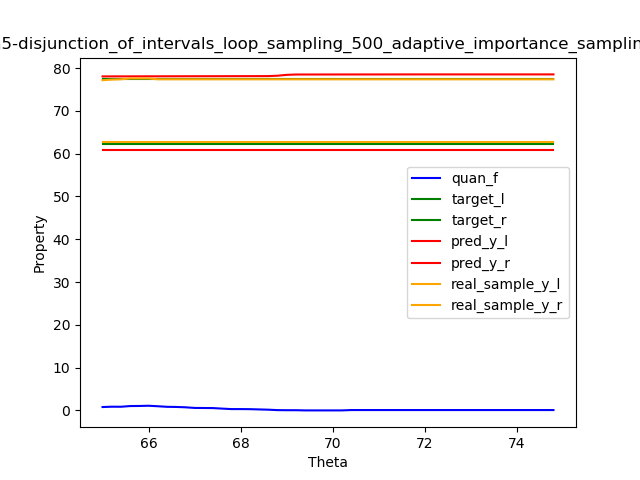
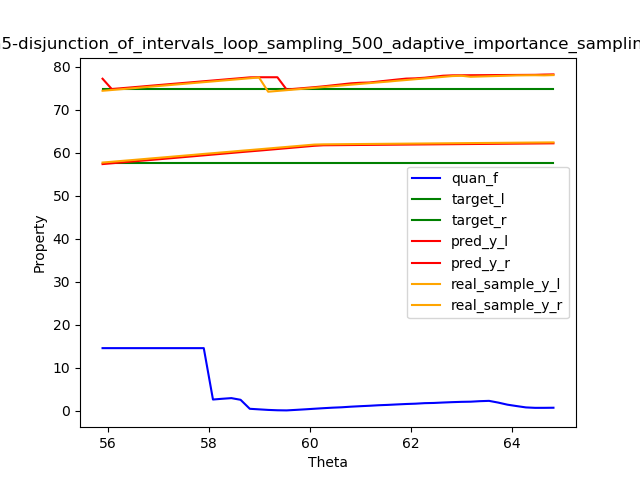
update program5 thermostat-loop

diff --git a/framework_trajectories/constants.py b/framework_trajectories/constants.py
@@ -37,9 +37,9 @@ INTERVAL_BETA = var(1.0) # 2.0
 POINT_BETA = var(100.0) # 10.0
 PARTIAL_BETA = var(1.0) # 1.0
 EPSILON = var(0.00001)
-B = var(10000) # the range of lambda
+B = var(1000) # the range of lambda
 
-CURRENT_PROGRAM = 'program7' # 'program_test_disjunction_2'
+CURRENT_PROGRAM = 'program5' # 'program_test_disjunction_2'
 
 # PROGRAM #1
 # ! have problem!
@@ -120,7 +120,7 @@ theta_l = 1.0
 theta_r = 9.0
 safe_l = 2.368  
 safe_r = 7.04
-mcai: 10/10 avg loss: 0.121
+mcai: 10/10  avg loss: 0.121
 baseline2: 3/10
 '''
 
@@ -149,13 +149,14 @@ baseline2: 2/10
 
 # PROGRAM #5
 # ! have problem
-# x_l = [62.0]
-# x_r = [72.0]
-# target_theta = 57.046 # 57.7
-# theta_l = 55.0
-# theta_r = 58.3
-# safe_l = 57.65 # 57.69 # 69.8
-# safe_r = 76.12 # 76.76 # 77.0
+x_l = [62.0]
+x_r = [72.0]
+target_theta = 59.54# 56.1 # 57.046 # 57.7
+theta_l = 55.0 # 55.9 # 55.0
+theta_r = 62.0 # 65.0 # 58.3
+safe_l = 61.04 # safe_l = 57.557# 57.69 # 69.8
+safe_r = 74.697 # safe_r = 74.8263 # 76.76 # 77.0
+
 '''
 original setting: 
 safe_l = 69.8
@@ -165,11 +166,28 @@ mcai: 10/10, avg loss: 0.032
 baseline2: 9/10
 
 update setting:
-safe_l =  
-safe_r = 
-stop-val = 
-mcai:     avg loss:
-baseline2: 
+target theta: 56.1
+safe_l = 56.64
+safe_r = 77.31
+theta_l = 55.0
+theta_r =  58.3
+stop-val = 0.5
+mcai:   10/10  avg loss:
+baseline2: 8 /10
+
+refined initial partition[split 'x' into 10 equal partition]:
+command: 
+previous setting restrict the approximation but large point smooth loss
+safe_l = 61.04
+safe_r = 74.697
+target_theta = 59.54
+theta_l = 55.0
+theta_r = 62.0
+stop-val = 1.0
+mcai: avg loss: ()
+baseline2: 0/10
+
+
 '''
 
 
@@ -292,13 +310,13 @@ baseline2: 3/10
 # safe_r = 5.0 #0.5
 
 # expr B: run 10 times, check safety
-x_l = [-5, -5, 0.0, 2.0, 2.5, 0.0]
-x_r = [5, 5, 0.0, 2.0, 2.5, 2.0]
-target_theta = 1.9 # 4.2, loss: < 1.0 # 2.175, probability loss: 1.5
-theta_l = 1.5 # 4.0 # 1.5
-theta_r =  2.5 # 4.5
-safe_l = -6.5992 #-0.4
-safe_r = 5.0 #0.5
+# x_l = [-5, -5, 0.0, 2.0, 2.5, 0.0]
+# x_r = [5, 5, 0.0, 2.0, 2.5, 2.0]
+# target_theta = 1.9 # 4.2, loss: < 1.0 # 2.175, probability loss: 1.5
+# theta_l = 1.5 # 4.0 # 1.5
+# theta_r =  2.5 # 4.5
+# safe_l = -6.5992 #-0.4
+# safe_r = 5.0 #0.5
 # stop-val 1.0s
 
 '''
@@ -315,17 +333,18 @@ baseline2: 10/10
 update setting: [similar]
 safe_l = -6.92
 safe_r = 5.0  # can not be more refined
-stop-val = 10. -> 1.5
+stop-val = 1. -> 1.5
 mcai:     avg loss:
 baseline2: 
 
 refined initial partition[split 'y' into 10 equal partition]:
+command: --lr 0.001 --stop_val 1.5 --optimizer gd_direct_noise
 safe_l = -6.5992 
 safe_r = 5.0
 target_theta = 1.9
 theta_l = 1.5
 theta_r =  2.5 
-mcai: avg loss:
+mcai:  10/10 avg loss: 1.368698 (1.13999, 1.4434, 1.46932,  1.41152, 1.37926)
 baseline2: 2/10
 '''
 
@@ -334,11 +353,11 @@ baseline2: 2/10
 # stop-val 0.05
 # x_l = [-5, -5, 0.0, 2.0, 2.5, 0.0]
 # x_r = [5, 5, 0.0, 2.0, 2.5, 2.0]
-# target_theta = 4.2
-# theta_l = 1.0
-# theta_r = 5.0
-# safe_l = -1.895 # -2.61 #-0.4
-# safe_r = 2.31 # 1.905 #0.5
+# target_theta = 1.9
+# theta_l = 1.5
+# theta_r = 2.5
+# safe_l = -5.7658 # -2.61 #-0.4
+# safe_r = 5.0 # 1.905 #0.5
 '''
 original setting: 
 x_l = [-5, -5, 0.0, 2.0, 2.5, 0.0]
@@ -348,15 +367,26 @@ theta_l = 1.0
 theta_r = 5.0
 safe_l = -1.895
 safe_r = 2.31
-stop-val = 1.0
+stop-val = 0.5
 mcai: 10/10, avg loss: 0.99
 baseline2: 10/10
 
 update setting:
+sample size: 10000, 0.99
+target_theta = 1.634
+safe_l = -5.7658
+safe_r = 5.0
+stop-val = 1.0
+mcai: 0.1996    avg loss:(0.16272, 0.21603, 0.19318, 0.19341, 0.23274, 0.20775)
+baseline2: 1/10
+
+refined initial partition[split 'y' into 10 equal partition]:
 safe_l = 
 safe_r = 
-stop-val = 
-mcai:     avg loss:
+target_theta = 
+theta_l = 
+theta_r =  
+mcai: avg loss: 
 baseline2: 
 '''
 

diff --git a/framework_trajectories/program5.py b/framework_trajectories/program5.py
@@ -26,7 +26,8 @@ if MODE == 5:
             symbol_table['x_memo_list'] = list([domain.Interval(N_INFINITY.data.item(), N_INFINITY.data.item())])
             symbol_table['probability'] = var(1.0)
             symbol_table['explore_probability'] = var(1.0)
-            symbol_table_list.append(symbol_table)
+            # symbol_table_list.append(symbol_table)
+            symbol_table_list = split_symbol_table(symbol_table, ['x'], partition=10)
 
             return symbol_table_list
     
@@ -155,7 +156,8 @@ def construct_syntax_tree(Theta):
     l4_0 = WhileSample('x_neg', var(-78.0), l5_0, l19)
     
     # l18 = Assign('i', f18, None)
-    l18 = Assign(['x_neg', 'x'], f_neg_domain, None)
+    l18_res = Assign(['res', 'x'], f19_domain, None)
+    l18 = Assign(['x_neg', 'x'], f_neg_domain, l18_res)
     l18_min = Assign(['x_min', 'x'], f_min_domain, l18)
     l18_max = Assign(['x_max', 'x'], f_max_domain, l18_min)
 
@@ -207,7 +209,8 @@ def construct_syntax_tree_point(Theta):
 
     # l18 = AssignPoint('i', f18, None)
     # l18 = AssignPoint(['x_neg', 'x'], f_neg, None)
-    l18 = AssignPoint(['x_neg', 'x'], f_neg, None)
+    l18_res = AssignPoint(['res', 'x'], f19, None)
+    l18 = AssignPoint(['x_neg', 'x'], f_neg, l18_res)
     l18_min = AssignPoint(['x_min', 'x'], f_min, l18)
     l18_max = AssignPoint(['x_max', 'x'], f_max, l18_min)
 
@@ -259,7 +262,8 @@ def construct_syntax_tree_smooth_point(Theta):
 
     # l18 = AssignPointSmooth(['i'], f18, None)
     # l18 = AssignPointSmooth(['x_neg', 'x'], f_neg, None)
-    l18 = AssignPointSmooth(['x_neg', 'x'], f_neg, None)
+    l18_res = AssignPointSmooth(['res', 'x'], f19, None)
+    l18 = AssignPointSmooth(['x_neg', 'x'], f_neg, l18_res)
     l18_min = AssignPointSmooth(['x_min', 'x'], f_min, l18)
     l18_max = AssignPointSmooth(['x_max', 'x'], f_max, l18_min)
 

diff --git a/framework_trajectories/run_baseline_2.py b/framework_trajectories/run_baseline_2.py
@@ -15,10 +15,10 @@ from test_baseline_2 import *
 # from program2 import *
 # from program3 import *
 # from program4 import *
-# from program5 import *
+from program5 import *
 # from program6 import *
 # from program6_loop import *
-from program7 import *
+# from program7 import *
 # from program8 import *
 # from program_test_disjunction import *
 # from program_test_disjunction_2 import *
@@ -53,9 +53,9 @@ if __name__ == "__main__":
         eval(X_train, y_train, theta, target, 'train')
         eval(X_test, y_test, theta, target, 'test')
 
-    # # test
+    # test
     # target = domain.Interval(safe_l, safe_r)
-    # X_train, X_test, y_train, y_test = data_generator(x_l, x_r, size=1000, target_theta=target_theta, test_size=0.1)
+    # X_train, X_test, y_train, y_test = data_generator(x_l, x_r, size=100, target_theta=target_theta, test_size=0.33)
 
     # test(X_train, y_train, theta_l, theta_r, target)
 

diff --git a/framework_trajectories/run.py b/framework_trajectories/run.py
@@ -8,10 +8,10 @@ from test import *
 # from program2 import *
 # from program3 import *
 # from program4 import *
-# from program5 import *
+from program5 import *
 # from program6 import *
 # from program6_loop import *
-from program7 import *
+# from program7 import *
 # from program8 import *
 # from program_test_disjunction import *
 # from program_test_disjunction_2 import *
@@ -68,7 +68,7 @@ if __name__ == "__main__":
 
     # data points generation
     target = domain.Interval(safe_l, safe_r)
-    X_train, X_test, y_train, y_test = data_generator(x_l, x_r, size=100, target_theta=target_theta, test_size=0.33)
+    X_train, X_test, y_train, y_test = data_generator(x_l, x_r, size=1000, target_theta=target_theta, test_size=0.95)
 
     # add for lambdas
     # Loss(theta, lambda) = Q(theta) + lambda * C(theta)

diff --git a/framework_trajectories/data_generator.py b/framework_trajectories/data_generator.py
@@ -12,10 +12,10 @@ from constants import *
 # from program2 import *
 # from program3 import *
 # from program4 import *
-# from program5 import *
+from program5 import *
 # from program6 import *
 # from program6_loop import *
-from program7 import *
+# from program7 import *
 # from program8 import *
 # from program_test_disjunction import *
 # from program_test_disjunction_2 import *

diff --git a/framework_trajectories/program8.py b/framework_trajectories/program8.py
@@ -29,7 +29,7 @@ if MODE == 5:
             symbol_table['explore_probability'] = var(1.0)
 
             # symbol_table_list.append(symbol_table)
-            symbol_table_list = split_symbol_table(symbol_table, ['y'], partition=10)
+            symbol_table_list = split_symbol_table(symbol_table, ['y'], partition=1)
 
             return symbol_table_list
 

diff --git a/framework_trajectories/optimization_baseline_2.py b/framework_trajectories/optimization_baseline_2.py
@@ -89,7 +89,7 @@ if MODE == 1:
 
 def plot_sep_quan_safe_trend(X_train, y_train, theta_l, theta_r, target, k=100):
     print('in plot_sep_quan_safe_trend')
-    k = 200
+    # k = 
     unit = (theta_r - theta_l) * 1.0 / k
     
     theta_list = list()
